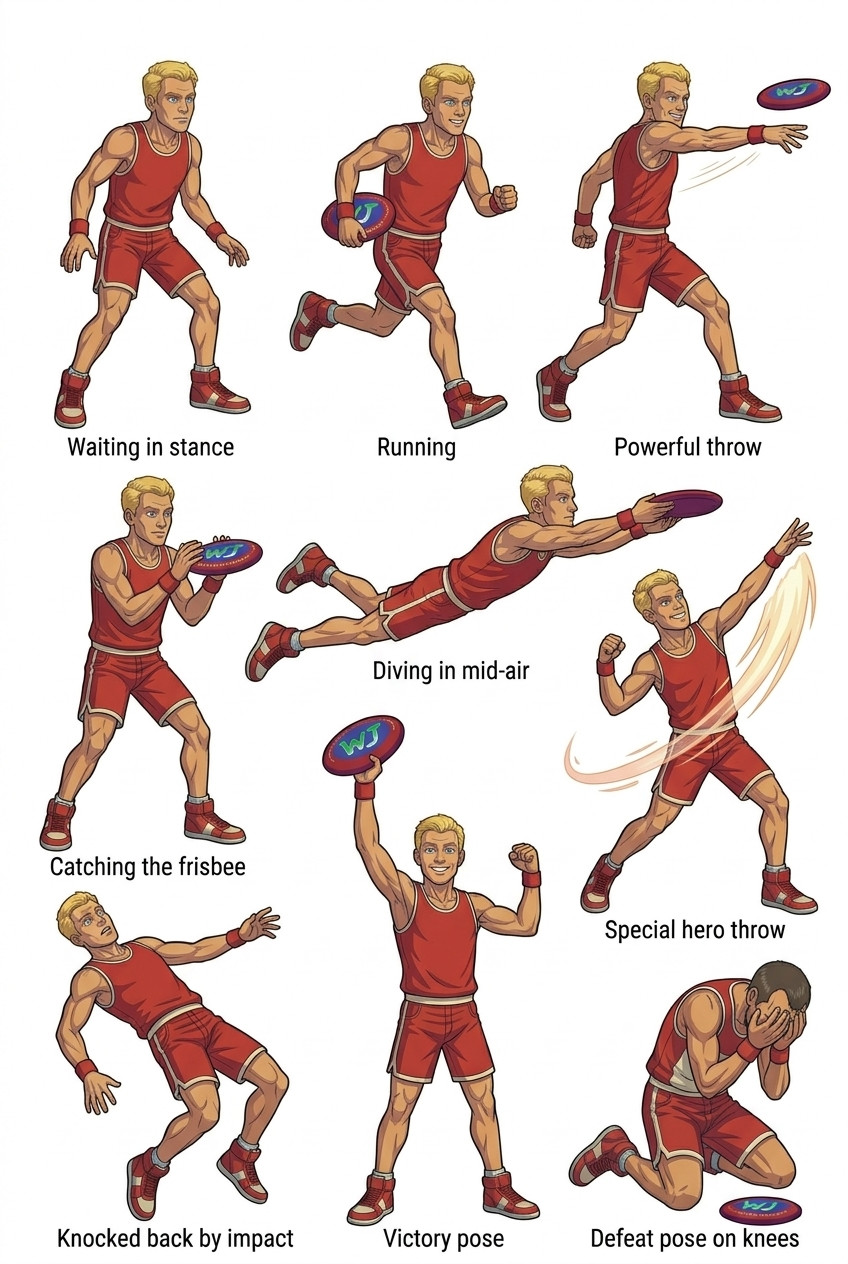
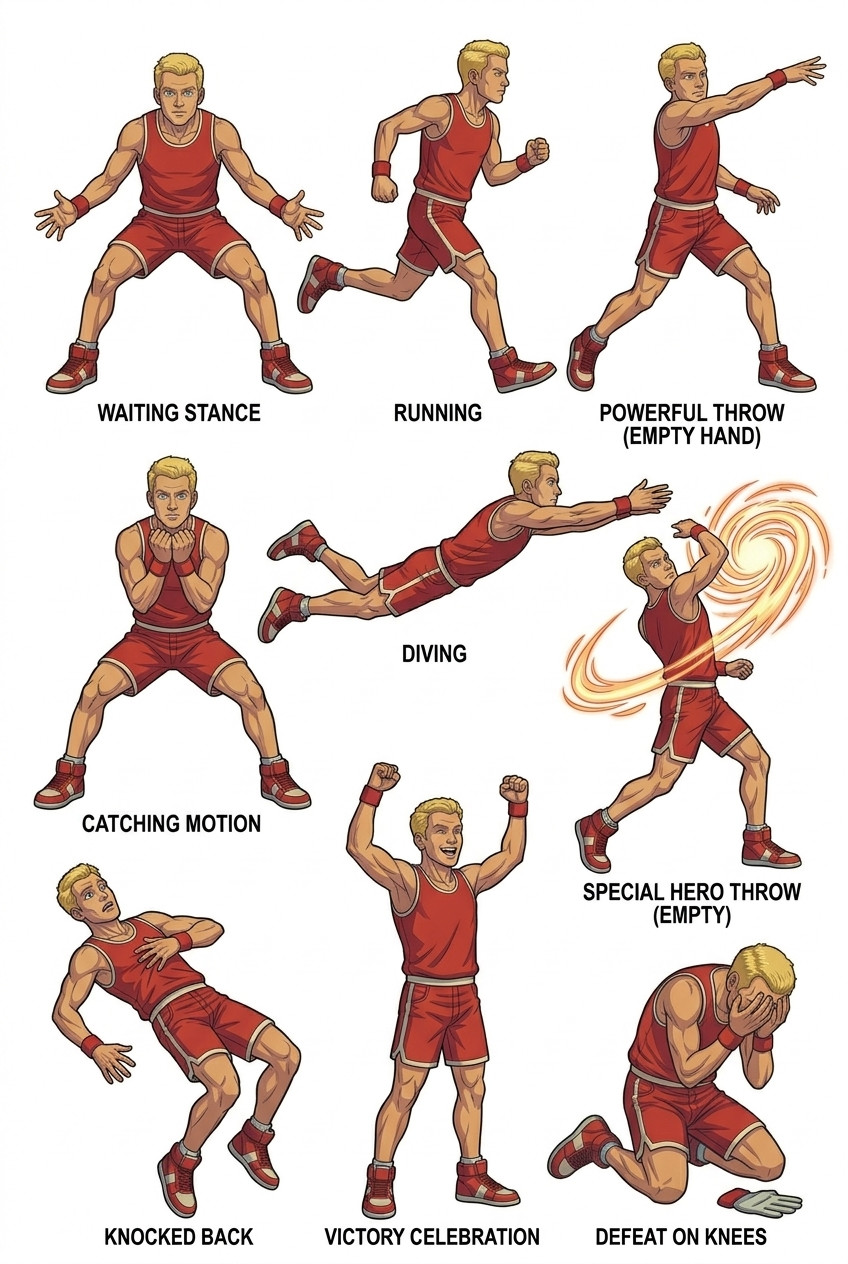
Ton joueur : nouvelle planche (mains vides, toujours blond), le frisbee est posé dans ses mains quand il le tient
Claude-Session: https://claude.ai/code/session_01Nh56uCfCYFQpr6HwXFtrQ7

diff --git a/assets/manifeste.js b/assets/manifeste.js
@@ -138,7 +138,7 @@ export const MANIFESTE = {
     // Les pieds touchent le bas de la case. "course" dessinée = 4 images côte à côte.
     // Pas d'attente sans frisbee sur les planches : "garde" utilise la course ; "nargue" utilise la victoire.
     // Ton joueur (blond, maillot rouge) : planche assets_inbox/heros_frisbee_planche.jpg, poses tournées vers la DROITE.
-    // Sa course tient un frisbee : on utilise l'attente (mains vides) avec de petits bonds.
+    // Ses poses ont les mains vides : le jeu dessine le frisbee devant lui quand il le tient.
     lionel_terrain:  { fichier: null, largeur: 960, hauteur: 540, images: 1, vitesse: 1, provisoire: { forme: 'terrainFrisbee', terrain: TERRAIN_FRISBEE } },
     frisbee:         { fichier: null, largeur: 34, hauteur: 34, images: 4, vitesse: 16, provisoire: { forme: 'frisbee' } },
     lionel_garde:    { fichier: 'sprites/lionel/lionel_course.png', largeur: 181, hauteur: 270, images: 1, vitesse: 1, provisoire: { forme: 'joueurFrisbee', pose: 'garde', ...LIONEL } },
@@ -153,16 +153,16 @@ export const MANIFESTE = {
     lionel_touche:   { fichier: 'sprites/lionel/lionel_touche.png', largeur: 226, hauteur: 238, images: 1, vitesse: 1, provisoire: { forme: 'joueurFrisbee', pose: 'touche', ...LIONEL } },
     lionel_defaite:  { fichier: 'sprites/lionel/lionel_defaite.png', largeur: 154, hauteur: 168, images: 1, vitesse: 1, provisoire: { forme: 'joueurFrisbee', pose: 'defaite', ...LIONEL } },
     lionel_portrait: { fichier: 'sprites/lionel/lionel_portrait.png', largeur: 215, hauteur: 650, images: 1, vitesse: 1, provisoire: { forme: 'joueurFrisbee', pose: 'nargue', ...LIONEL } },
-    heros_frisbee_garde:    { fichier: 'sprites/hub/heros_frisbee_garde.png', largeur: 142, hauteur: 266, images: 1, vitesse: 1, provisoire: { forme: 'joueurFrisbee', pose: 'garde', ...HEROS_FRISBEE } },
-    heros_frisbee_course:   { fichier: 'sprites/hub/heros_frisbee_garde.png', largeur: 142, hauteur: 266, images: 1, vitesse: 1, provisoire: { forme: 'joueurFrisbee', pose: 'course', ...HEROS_FRISBEE } },
-    heros_frisbee_tient:    { fichier: 'sprites/hub/heros_frisbee_tient.png', largeur: 161, hauteur: 271, images: 1, vitesse: 1, provisoire: { forme: 'joueurFrisbee', pose: 'tient', ...HEROS_FRISBEE } },
-    heros_frisbee_lance:    { fichier: 'sprites/hub/heros_frisbee_lance.png', largeur: 212, hauteur: 261, images: 1, vitesse: 1, provisoire: { forme: 'joueurFrisbee', pose: 'lance', ...HEROS_FRISBEE } },
-    heros_frisbee_super:    { fichier: 'sprites/hub/heros_frisbee_super.png', largeur: 184, hauteur: 287, images: 1, vitesse: 1, provisoire: { forme: 'joueurFrisbee', pose: 'super', ...HEROS_FRISBEE } },
-    heros_frisbee_rattrape: { fichier: 'sprites/hub/heros_frisbee_rattrape.png', largeur: 161, hauteur: 271, images: 1, vitesse: 1, provisoire: { forme: 'joueurFrisbee', pose: 'rattrape', ...HEROS_FRISBEE } },
-    heros_frisbee_plongeon: { fichier: 'sprites/hub/heros_frisbee_plongeon.png', largeur: 344, hauteur: 157, images: 1, vitesse: 1, provisoire: { forme: 'joueurFrisbee', pose: 'plongeon', ...HEROS_FRISBEE } },
-    heros_frisbee_victoire: { fichier: 'sprites/hub/heros_frisbee_victoire.png', largeur: 158, hauteur: 369, images: 1, vitesse: 1, provisoire: { forme: 'joueurFrisbee', pose: 'victoire', ...HEROS_FRISBEE } },
-    heros_frisbee_touche:   { fichier: 'sprites/hub/heros_frisbee_touche.png', largeur: 169, hauteur: 238, images: 1, vitesse: 1, provisoire: { forme: 'joueurFrisbee', pose: 'touche', ...HEROS_FRISBEE } },
-    heros_frisbee_defaite:  { fichier: 'sprites/hub/heros_frisbee_defaite.png', largeur: 176, hauteur: 193, images: 1, vitesse: 1, provisoire: { forme: 'joueurFrisbee', pose: 'defaite', ...HEROS_FRISBEE } },
+    heros_frisbee_garde:    { fichier: 'sprites/hub/heros_frisbee_garde.png', largeur: 210, hauteur: 247, images: 1, vitesse: 1, provisoire: { forme: 'joueurFrisbee', pose: 'garde', ...HEROS_FRISBEE } },
+    heros_frisbee_course:   { fichier: 'sprites/hub/heros_frisbee_course.png', largeur: 187, hauteur: 256, images: 1, vitesse: 1, provisoire: { forme: 'joueurFrisbee', pose: 'course', ...HEROS_FRISBEE } },
+    heros_frisbee_tient:    { fichier: 'sprites/hub/heros_frisbee_tient.png', largeur: 201, hauteur: 256, images: 1, vitesse: 1, provisoire: { forme: 'joueurFrisbee', pose: 'tient', ...HEROS_FRISBEE } },
+    heros_frisbee_lance:    { fichier: 'sprites/hub/heros_frisbee_lance.png', largeur: 188, hauteur: 253, images: 1, vitesse: 1, provisoire: { forme: 'joueurFrisbee', pose: 'lance', ...HEROS_FRISBEE } },
+    heros_frisbee_super:    { fichier: 'sprites/hub/heros_frisbee_super.png', largeur: 197, hauteur: 284, images: 1, vitesse: 1, provisoire: { forme: 'joueurFrisbee', pose: 'super', ...HEROS_FRISBEE } },
+    heros_frisbee_rattrape: { fichier: 'sprites/hub/heros_frisbee_rattrape.png', largeur: 201, hauteur: 256, images: 1, vitesse: 1, provisoire: { forme: 'joueurFrisbee', pose: 'rattrape', ...HEROS_FRISBEE } },
+    heros_frisbee_plongeon: { fichier: 'sprites/hub/heros_frisbee_plongeon.png', largeur: 300, hauteur: 140, images: 1, vitesse: 1, provisoire: { forme: 'joueurFrisbee', pose: 'plongeon', ...HEROS_FRISBEE } },
+    heros_frisbee_victoire: { fichier: 'sprites/hub/heros_frisbee_victoire.png', largeur: 132, hauteur: 330, images: 1, vitesse: 1, provisoire: { forme: 'joueurFrisbee', pose: 'victoire', ...HEROS_FRISBEE } },
+    heros_frisbee_touche:   { fichier: 'sprites/hub/heros_frisbee_touche.png', largeur: 181, hauteur: 256, images: 1, vitesse: 1, provisoire: { forme: 'joueurFrisbee', pose: 'touche', ...HEROS_FRISBEE } },
+    heros_frisbee_defaite:  { fichier: 'sprites/hub/heros_frisbee_defaite.png', largeur: 180, hauteur: 189, images: 1, vitesse: 1, provisoire: { forme: 'joueurFrisbee', pose: 'defaite', ...HEROS_FRISBEE } },
 
     // ---------- BOSS MODÈLE (test technique, pas un vrai boss) ----------
     modele_cible: { fichier: null, largeur: 64, hauteur: 64, images: 2, vitesse: 4,

diff --git a/src/bosses/lionel/LionelMatch.js b/src/bosses/lionel/LionelMatch.js
@@ -743,9 +743,15 @@ export class LionelMatch extends BossScene {
       this.ombreDisque.setVisible(false);
       // pendant qu'il nargue, Lionel fait tourner le frisbee au bout du doigt
       if (p === this.l && p.nargue && this.choisirPose(p) === 'nargue') this.disque.setPosition(p.x - 6, p.y - 132);
-      // ces poses ont déjà le frisbee en main (dessins et illustrations ; le plongeon illustré aussi)
-      const pose = this.choisirPose(p);
-      if (POSES_AVEC_DISQUE.includes(pose) || (pose === 'plongeon' && this.estIllustre(p.prefixe + '_plongeon'))) this.disque.setVisible(false);
+      const pose = this.choisirPose(p), illustre = this.estIllustre(p.prefixe + '_' + pose);
+      if (p === this.j && illustre) {
+        // tes illustrations ont les mains vides : le frisbee est posé dans tes mains
+        if (pose === 'plongeon') this.disque.setPosition(p.x + (p.sprite.flipX ? -1 : 1) * 70, p.y - 40);
+        else this.disque.setPosition(p.x + 3, p.y - 72);
+      } else if (POSES_AVEC_DISQUE.includes(pose) || (pose === 'plongeon' && illustre)) {
+        // ces poses ont déjà le frisbee en main (dessins du code, illustrations de Lionel)
+        this.disque.setVisible(false);
+      }
     } else { this.disque.setVisible(false); this.ombreDisque.setVisible(false); }
     this.dessinerReperes();
     this.majChrono();

diff --git a/outils/decouper_frisbee.py b/outils/decouper_frisbee.py
@@ -22,14 +22,15 @@ POSES = {
     'lionel_defaite':  ('lionel_planche_2.jpg', (270, 1070), False),
     'lionel_portrait': ('lionel_entier.jpg',    (420, 660), False),
     # ton joueur (planche avec légendes en anglais sous chaque pose)
-    'heros_frisbee_garde':    ('heros_frisbee_planche.jpg', (150, 245), False),
-    'heros_frisbee_lance':    ('heros_frisbee_planche.jpg', (670, 245), True),
-    'heros_frisbee_tient':    ('heros_frisbee_planche.jpg', (150, 660), True),
-    'heros_frisbee_plongeon': ('heros_frisbee_planche.jpg', (480, 570), True),
-    'heros_frisbee_super':    ('heros_frisbee_planche.jpg', (690, 715), True),
-    'heros_frisbee_touche':   ('heros_frisbee_planche.jpg', (170, 1055), False),
-    'heros_frisbee_victoire': ('heros_frisbee_planche.jpg', (430, 970), True),
-    'heros_frisbee_defaite':  ('heros_frisbee_planche.jpg', (690, 1100), False),
+    'heros_frisbee_garde':    ('heros_frisbee_planche.jpg', (180, 220), True),
+    'heros_frisbee_course':   ('heros_frisbee_planche.jpg', (427, 215), True),
+    'heros_frisbee_lance':    ('heros_frisbee_planche.jpg', (696, 217), True),
+    'heros_frisbee_tient':    ('heros_frisbee_planche.jpg', (172, 630), True),
+    'heros_frisbee_plongeon': ('heros_frisbee_planche.jpg', (465, 547), True),
+    'heros_frisbee_super':    ('heros_frisbee_planche.jpg', (696, 677), True),
+    'heros_frisbee_touche':   ('heros_frisbee_planche.jpg', (176, 1041), False),
+    'heros_frisbee_victoire': ('heros_frisbee_planche.jpg', (437, 991), True),
+    'heros_frisbee_defaite':  ('heros_frisbee_planche.jpg', (672, 1073), False),
 }
 # légende collée à la pose : on efface tout sous cette ligne (y sur la planche)
 COUPE_BAS = {'heros_frisbee_defaite': 1228}
@@ -72,6 +73,7 @@ for nom, (fichier, (cx, cy), versDroite) in POSES.items():
         s = objs[i]
         if s[0].stop < 140 and s[1].stop < 200: continue   # logo « PIXEL ATHLETE 93 » en haut à gauche
         if a < 1500 and s[0].stop - s[0].start <= 32: continue   # mots des légendes (petits et plats)
+        if s[0].stop - s[0].start <= 32 and (s[0].start + s[0].stop) / 2 > y1 - 40: continue   # ligne de légende sous les pieds
         if s[0].start >= y0 - 30 and s[0].stop <= y1 + 45 and s[1].start >= x0 - 30 and s[1].stop <= x1 + 30:
             garder |= lab == i + 1
     if nom in COUPE_BAS: garder = garder.copy(); garder[COUPE_BAS[nom]:] = False
